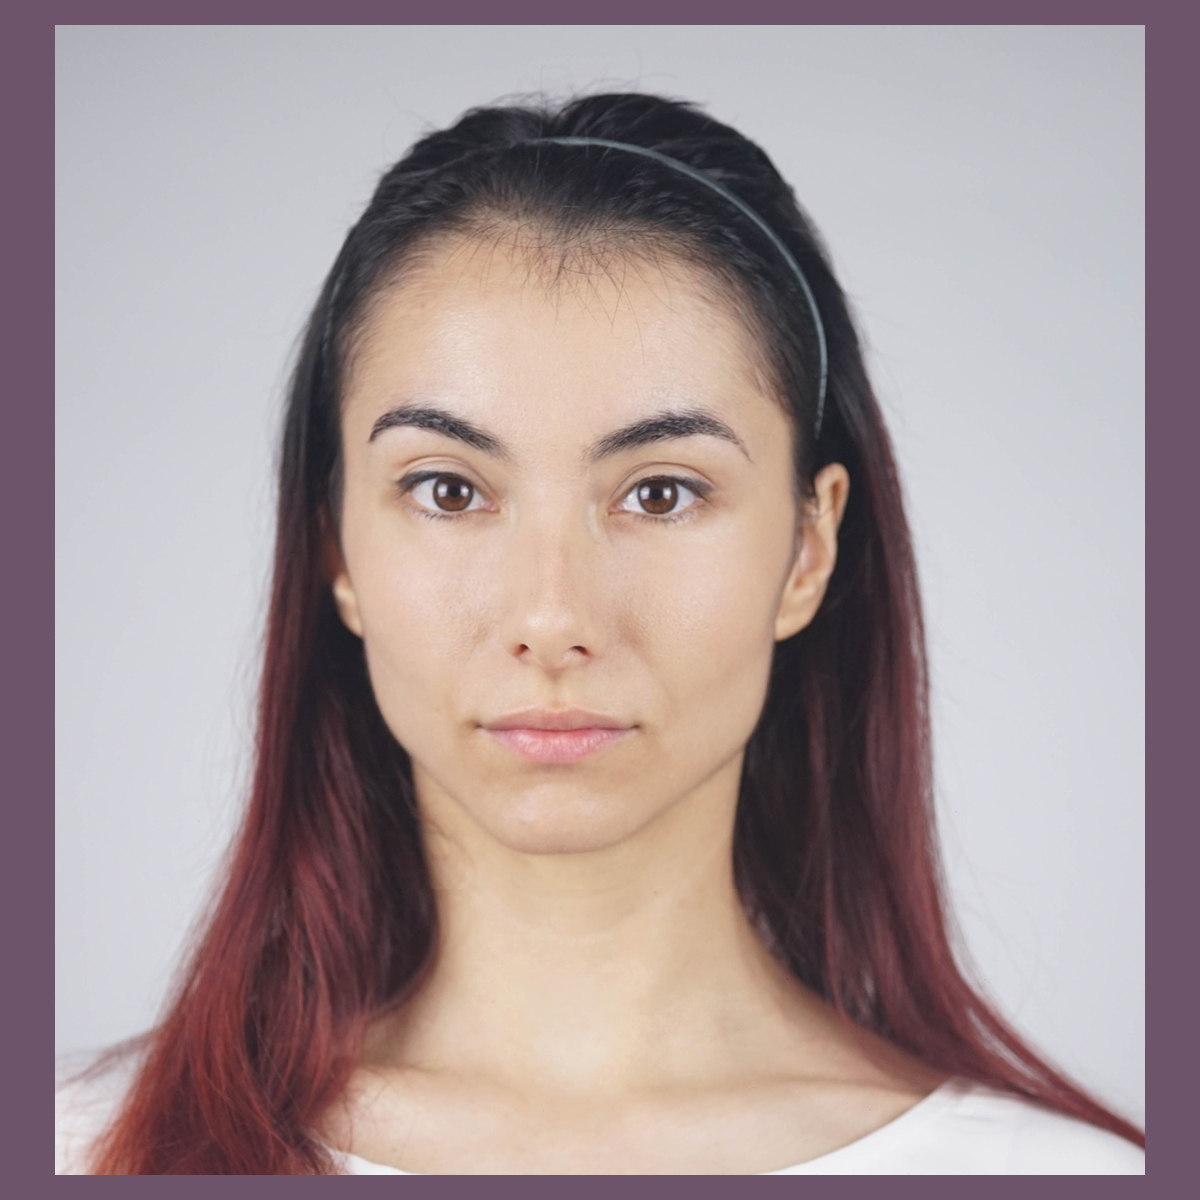
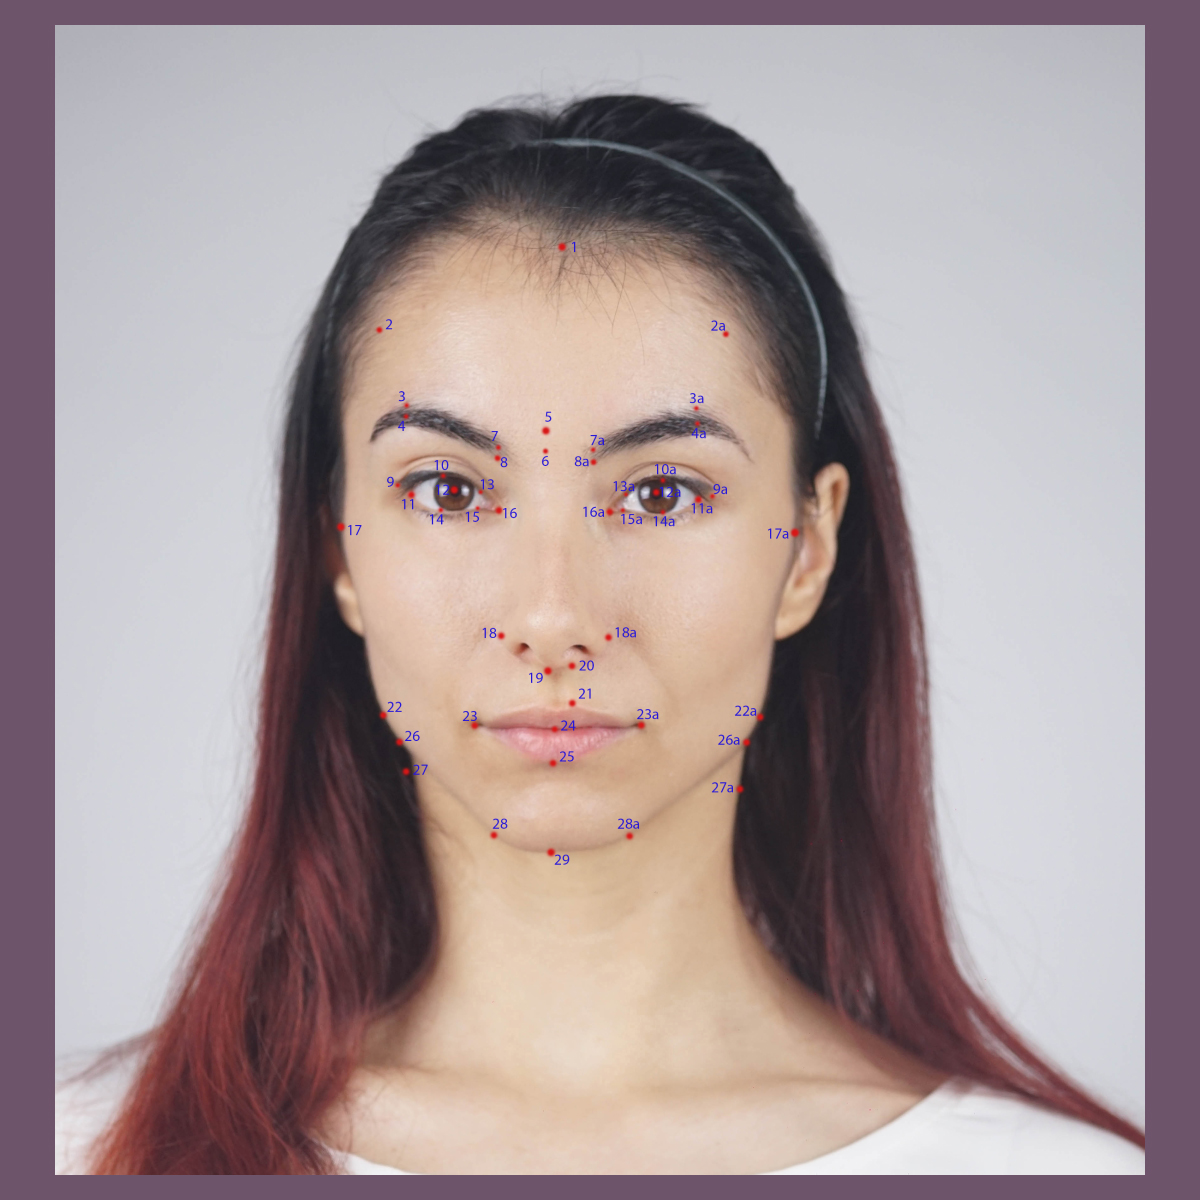
Image changed

diff --git a/src/components/SupportImage.js b/src/components/SupportImage.js
@@ -135,30 +135,6 @@ export function FrontSupportImage({ selectedPoint }) {
     ];
 
     context.clearRect(0, 0, canvas.width, canvas.height);
-    markPoints.forEach((markPoint) => {
-      context.beginPath();
-      context.arc(
-        markPoint[0].x * 1,
-        markPoint[0].y * 1,
-        circle_radius,
-        0,
-        2 * Math.PI
-      );
-      context.fillStyle = `rgb(255, 0, 0})`;
-      context.fill();
-
-      context.beginPath();
-      context.arc(
-        markPoint[1].x * 1,
-        markPoint[1].y * 1,
-        circle_radius,
-        0,
-        2 * Math.PI
-      );
-      context.fillStyle = `rgb(255, 0, 0)`;
-      context.fill();
-    });
-
     context.beginPath();
     context.arc(
       markPoints[selectedPoint[0]][selectedPoint[1]].x * 1,
@@ -312,8 +288,8 @@ export function SideSupportImage({ selectedPoint }) {
         { x: 420, y: 557 },
       ], //28
       [
-        { x: 370, y: 565 },
-        { x: 370, y: 565 },
+        { x: 370, y: 570 },
+        { x: 370, y: 570 },
       ], //29
       [{ x: 244, y: 190 }], //30
       [{ x: 225, y: 226 }], //31
@@ -347,20 +323,6 @@ export function SideSupportImage({ selectedPoint }) {
       [{ x: 185, y: 428 }], //59
     ];
     context.clearRect(0, 0, canvas.width, canvas.height);
-    markPoints.forEach((markPoint, index) => {
-      if (index >= 30 && index !==34 && index !==56 && index !==54) {        
-        context.beginPath();
-        context.arc(
-          markPoint[0].x * 1,
-          markPoint[0].y * 1,
-          circle_radius,
-          0,
-          2 * Math.PI
-        );
-        context.fillStyle = `rgb(255, 0, 0)`;
-        context.fill();
-      }
-    });
 
     context.beginPath();
     context.arc(

diff --git a/src/pages/home.js b/src/pages/home.js
@@ -610,7 +610,7 @@ function Home() {
               <div className="front_photo_area">
                 <img
                   className="image_drawer"
-                  src="./images/front.jpg"
+                  src="./images/front__.jpg"
                   alt="Image description"
                 ></img>
                 <div className="photo_div upload">
@@ -663,7 +663,7 @@ function Home() {
               <div className="side_photo_area">
                 <img
                   className="image_drawer"
-                  src="./images/side.jpg"
+                  src="./images/side__.jpg"
                   alt="Image description"
                 ></img>
                 <div className="photo_div upload">
